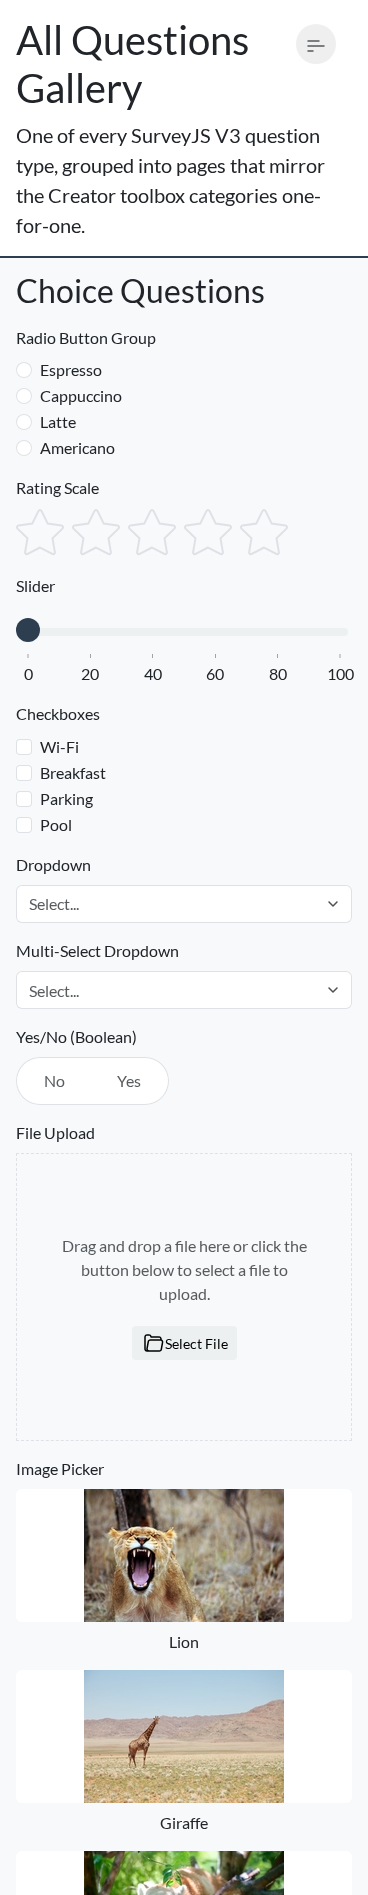
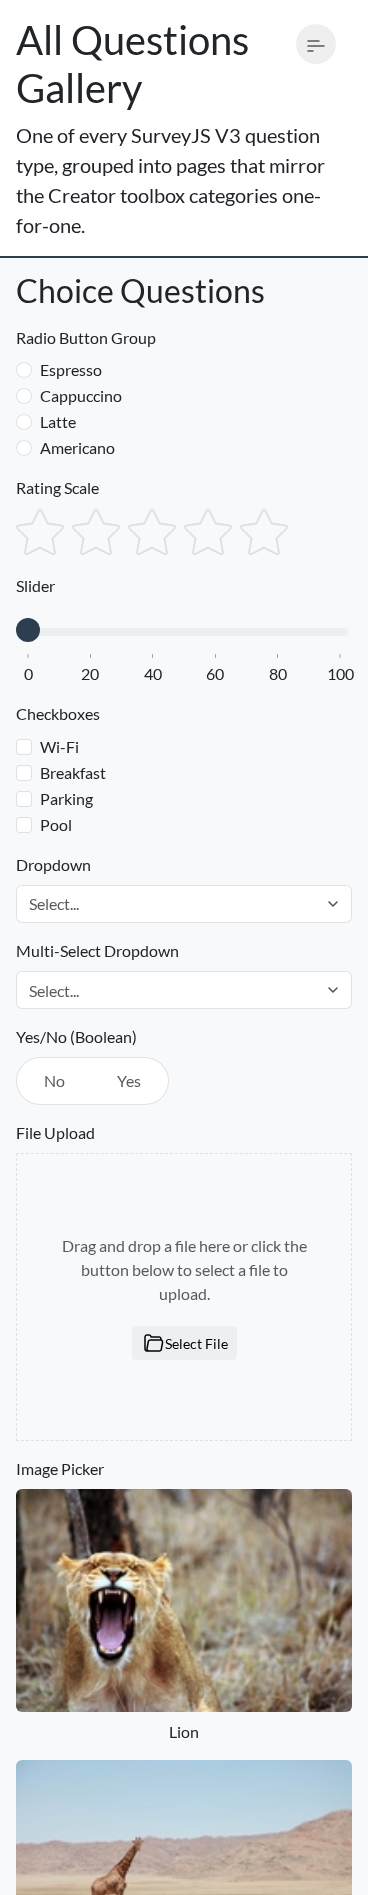
update mobile all questions etalons

Changed region(s): [[0.0299, 0.7784, 0.9565, 1.0]]

diff --git a/screenshot-tests/pages.mobile.spec.ts b/screenshot-tests/pages.mobile.spec.ts
@@ -61,6 +61,12 @@ test("mobile all-questions", async ({ page, forEachTheme }) => {
 
   await forEachTheme(async ({ open, name }) => {
     await open("all-questions");
+
+    const previousButton = page.getByRole('button', { name: 'Previous' }).nth(0);
+    const nextButton = page.getByRole('button', { name: 'Next' }).nth(0);
+    await nextButton.click();
+    await previousButton.click();
+
     await compareScreenshot(page, SURVEYJS, name("mobile-all-questions-1"), {
       maxDiffPixels: ALL_QUESTIONS_FLAKE_BUDGET,
     });
